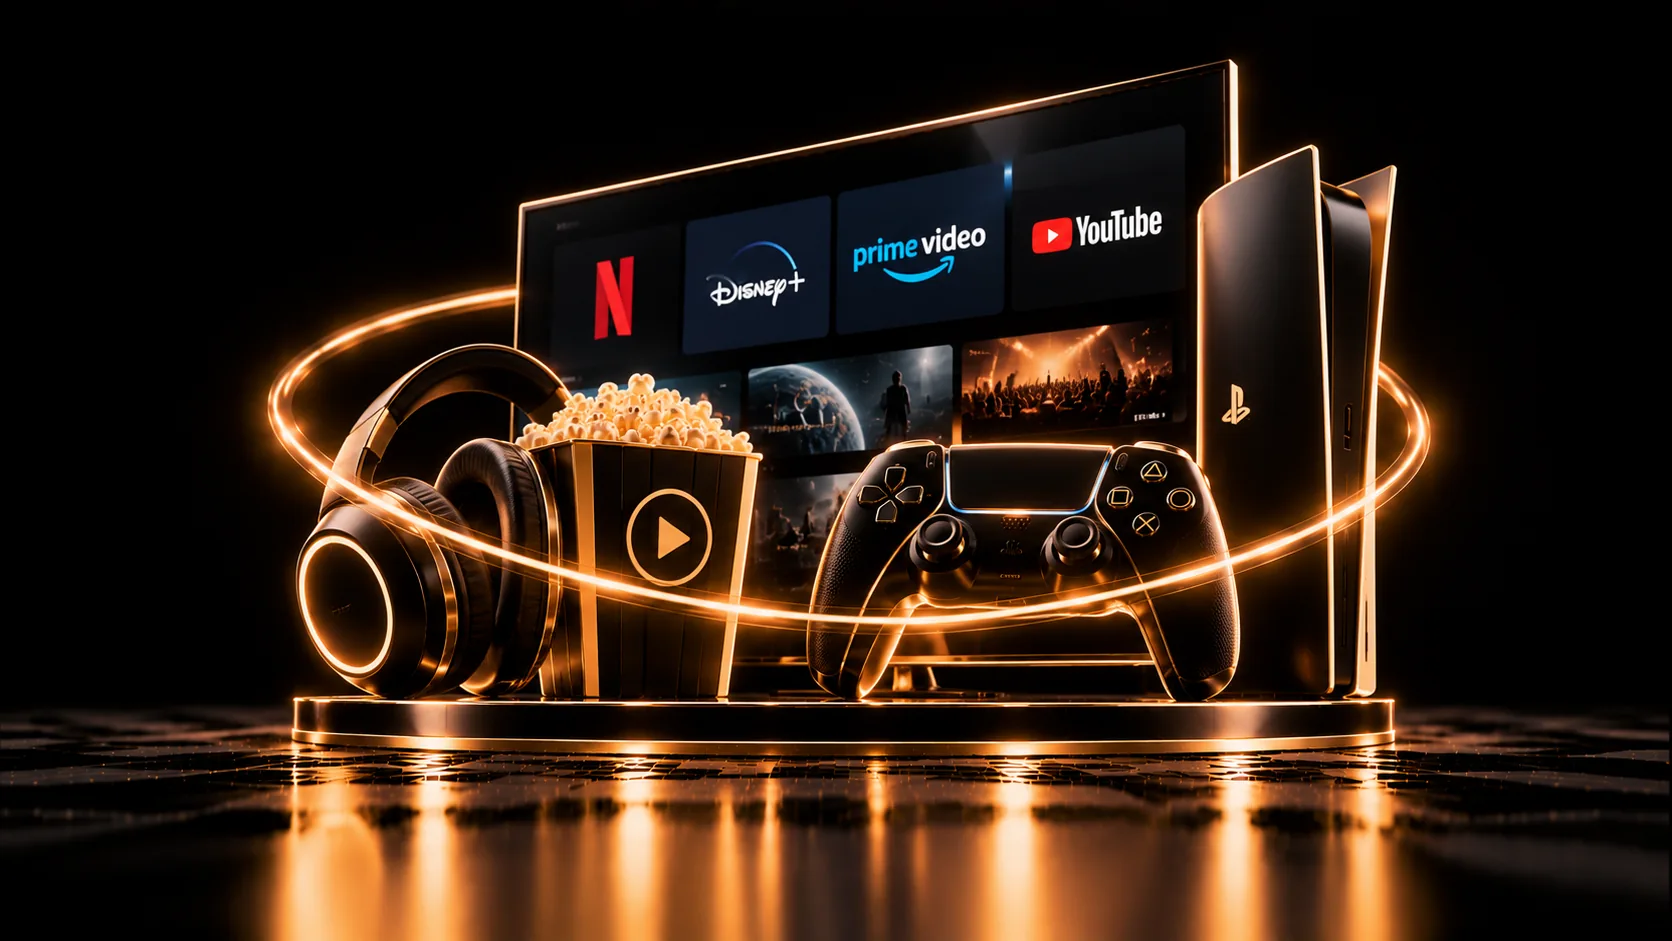
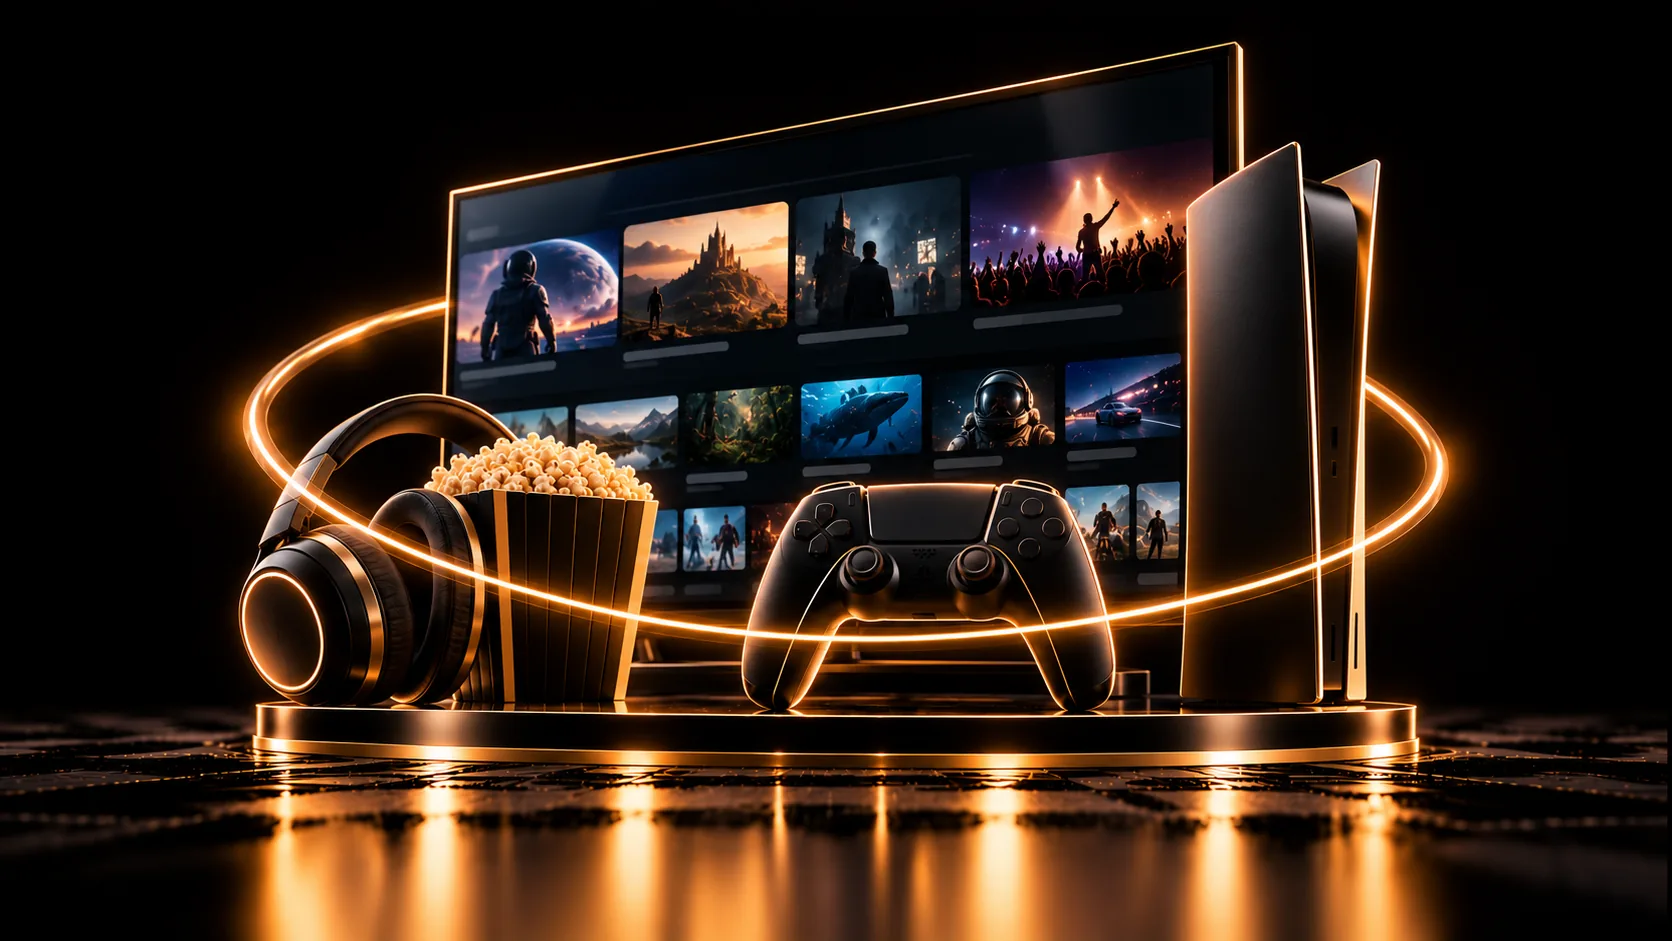
Themenwelt-Fotos: Künstliche Intelligenz; Medien und Streaming ohne Markenlogos
Claude-Session: https://claude.ai/code/session_016kZSAJdquyTZRZw2r3EGCG

diff --git a/discover-v2/themes.js b/discover-v2/themes.js
@@ -13,7 +13,7 @@
   var V = global.VUDiscoverV2 = global.VUDiscoverV2 || {};
   // n, slug, Titel, Kurztext, Zeile fuer Karten, Leitsatz (Banner), Ton, Gruppe, rowId, Foto
   var list = [
-    [1, 'kuenstliche-intelligenz', 'Künstliche Intelligenz', 'AI-Modelle, Software, Computing', 'Intelligentere Software. Neue Wertschöpfung.', 'Intelligentere Märkte. Größere Möglichkeiten.', '#6d4bff', 'tech', 'thema-ki'],
+    [1, 'kuenstliche-intelligenz', 'Künstliche Intelligenz', 'AI-Modelle, Software, Computing', 'Intelligentere Software. Neue Wertschöpfung.', 'Intelligentere Märkte. Größere Möglichkeiten.', '#6d4bff', 'tech', 'thema-ki', true],
     [2, 'halbleiter-chips', 'Halbleiter & Chips', 'GPUs, CPUs, Foundries, Equipment', 'Die Rechenkraft hinter jedem Fortschritt.', 'Kleine Chips. Große Wirkung.', '#3867ff', 'tech', null, true],
     [3, 'rechenzentren-cloud', 'Rechenzentren & Cloud', 'Datacenter, Hyperscaler, Infrastruktur', 'Das Fundament der digitalen Welt.', 'Daten brauchen ein Zuhause.', '#2f7dd8', 'tech', null, true],
     [4, 'cybersecurity', 'Cybersecurity', 'Digitale Sicherheit und Netzwerke', 'Schutz für eine vernetzte Welt.', 'Vertrauen ist Infrastruktur.', '#1f9c8f', 'tech', null, true],

diff --git a/assets/themen/README.md b/assets/themen/README.md
@@ -8,7 +8,7 @@ Ohne Foto zeigt Discover 2.1 einen dunklen Farbverlauf im Ton der Themenwelt.
 
 | Nr | Themenwelt | Datei | Status |
 |----|------------|-------|--------|
-| 01 | Künstliche Intelligenz | `01-kuenstliche-intelligenz` | offen |
+| 01 | Künstliche Intelligenz | `01-kuenstliche-intelligenz` | ✅ |
 | 02 | Halbleiter & Chips | `02-halbleiter-chips` | ✅ |
 | 03 | Rechenzentren & Cloud | `03-rechenzentren-cloud` | ✅ |
 | 04 | Cybersecurity | `04-cybersecurity` | ✅ |
